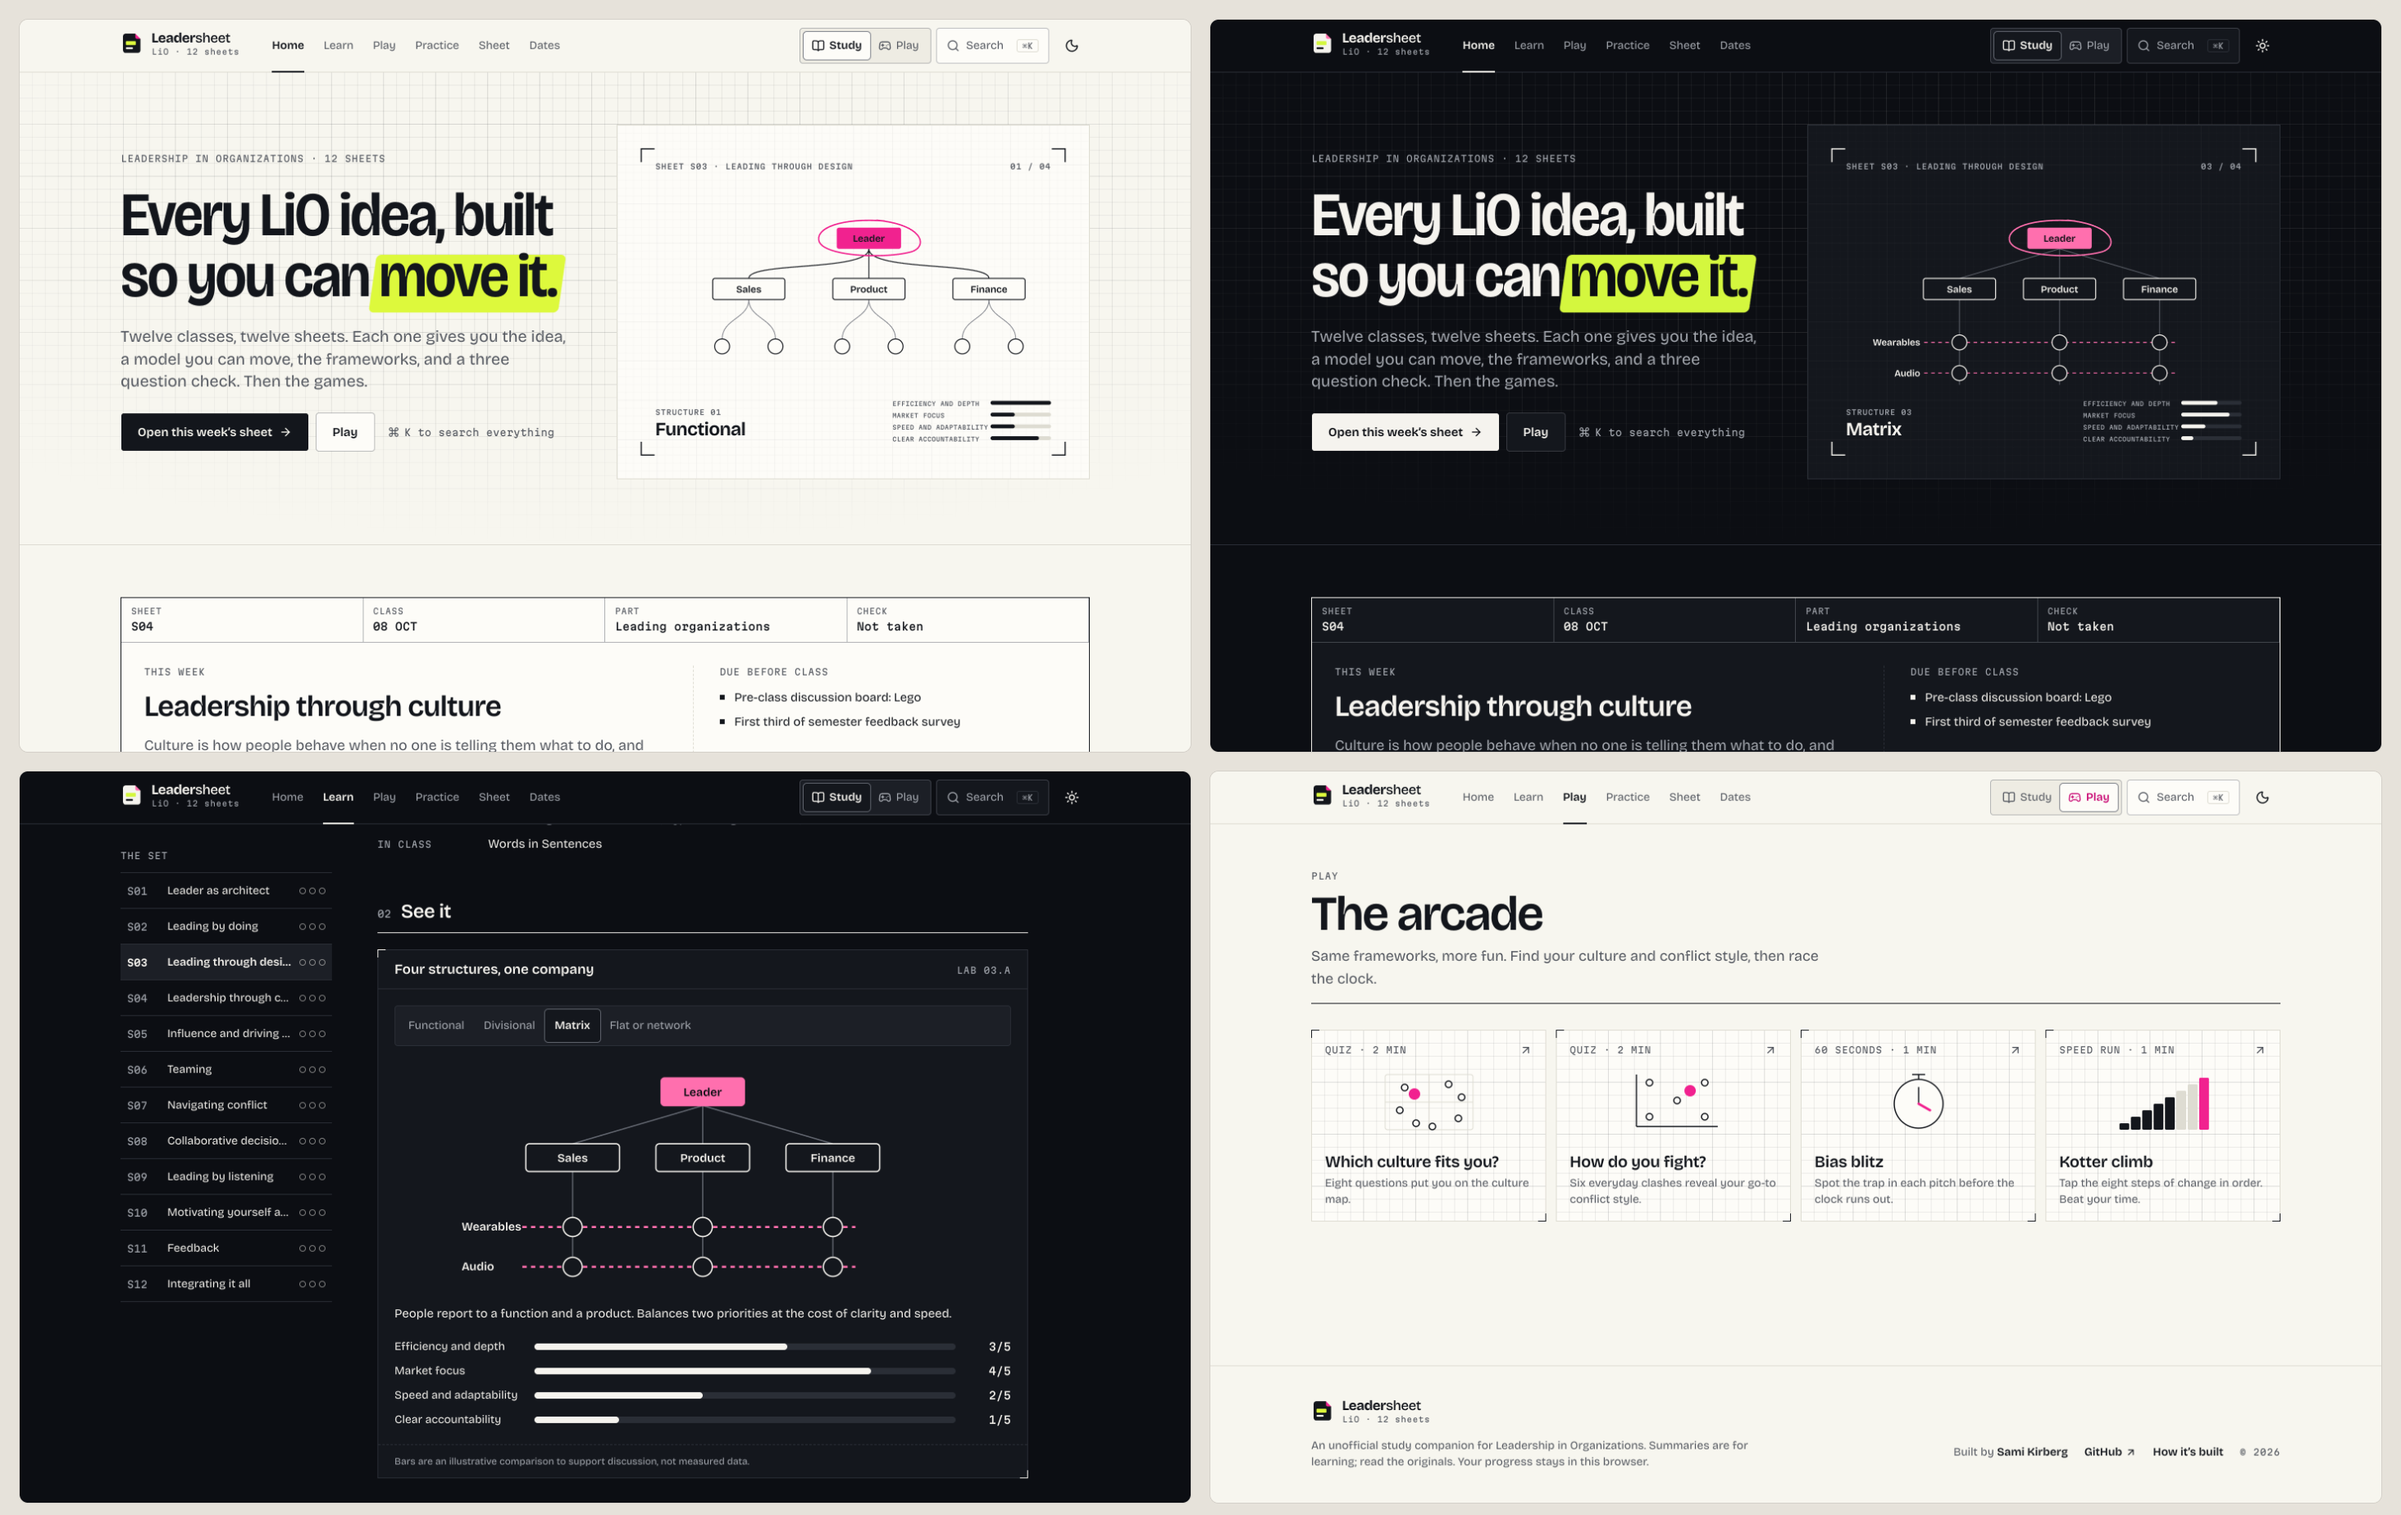
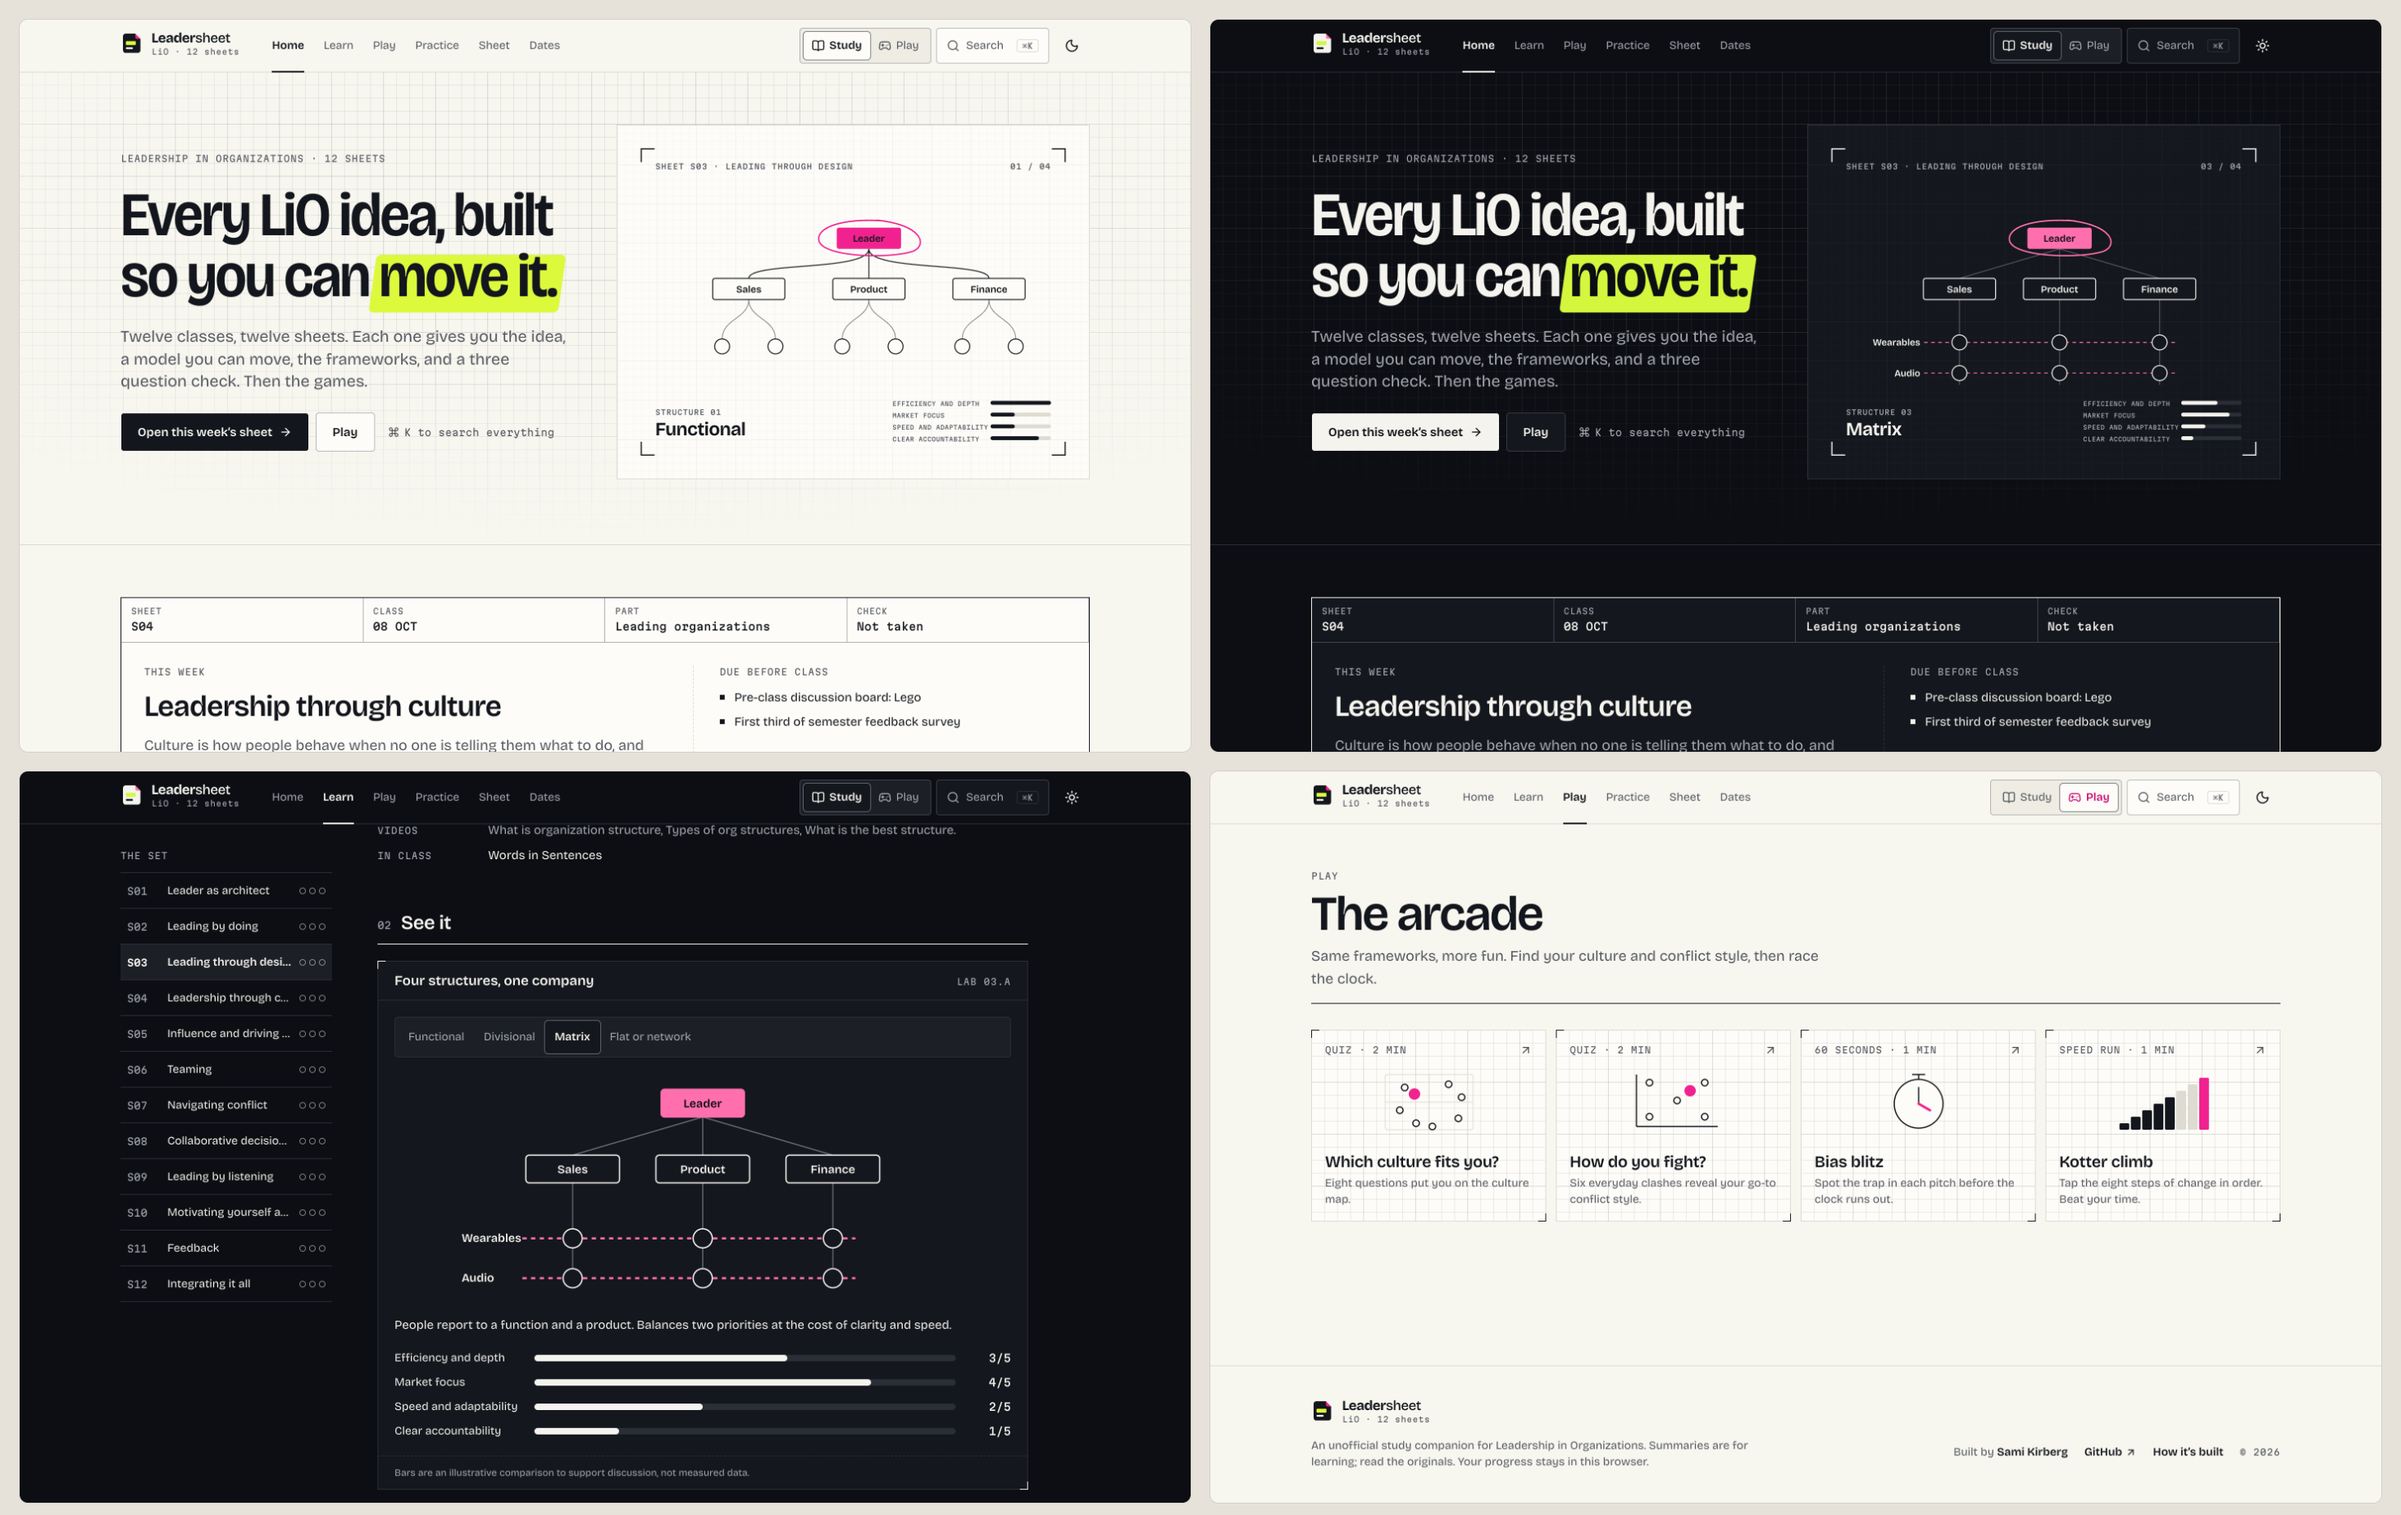
Fix scroll reveal range so tall sections never sit dimmed; stop tracking raw screenshots; honest competitor-color note

diff --git a/src/app/learn/[id]/page.tsx b/src/app/learn/[id]/page.tsx
@@ -26,7 +26,7 @@ export async function generateMetadata({ params }: { params: Promise<{ id: strin
 
 function Section({ no, title, id, children }: { no: string; title: string; id: string; children: React.ReactNode }) {
   return (
-    <section aria-labelledby={id} className="reveal grid min-w-0 scroll-mt-24 gap-5">
+    <section aria-labelledby={id} className="grid min-w-0 scroll-mt-24 gap-5">
       <div className="flex items-baseline gap-3 border-b border-foreground pb-2.5">
         <span className="font-mono text-xs text-muted-foreground tnum">{no}</span>
         <h2 id={id} className="text-2xl font-semibold tracking-[-0.015em]">

diff --git a/src/app/globals.css b/src/app/globals.css
@@ -315,7 +315,7 @@
     .reveal {
       animation: reveal linear both;
       animation-timeline: view();
-      animation-range: entry 0% entry 60%;
+      animation-range: entry 0px entry 140px;
     }
   }
   @keyframes reveal {

diff --git a/DESIGN.md b/DESIGN.md
@@ -42,7 +42,7 @@ Two spot inks on paper, like a Riso print. Paper and ink carry the page.
 
 `npm run contrast` checks every pair; all pass in both modes. Pink is never an error color; wrong answers get a strike and an X in ink.
 
-Category check: study tools own indigo (Quizlet), grass green (Duolingo), amber (Chegg), blue (Coursera) and purple (Kahoot). Hot pink and a lime highlighter belong to none of them. The lime is lighter and yellower than Duolingo's green and only ever appears as a highlighter fill.
+Category check: Chegg's amber (#EB7100) was verified; from memory, not verified, Quizlet leans indigo, Duolingo green, Coursera blue and Kahoot purple. Hot pink and a lime highlighter match none of them. The lime is lighter and yellower than a grass green and only ever appears as a highlighter fill.
 
 ## Type
 
